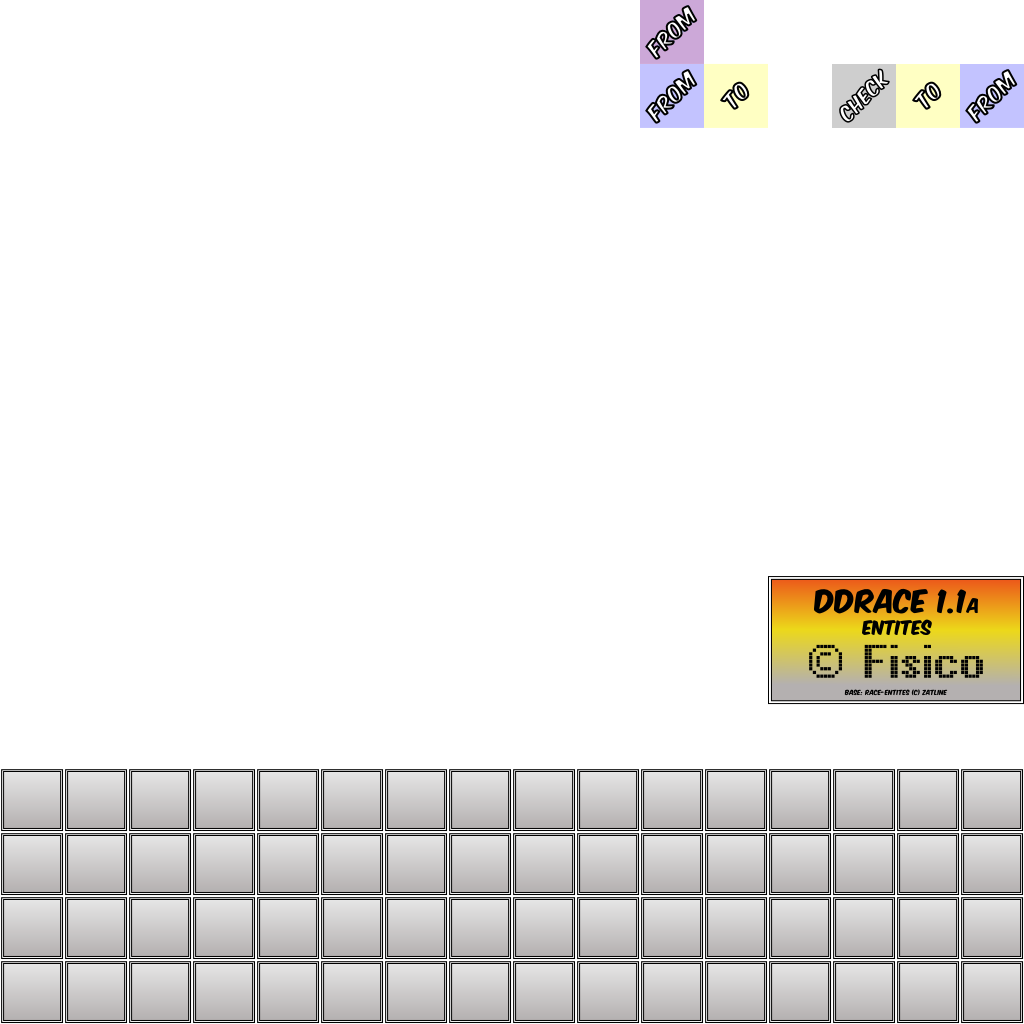
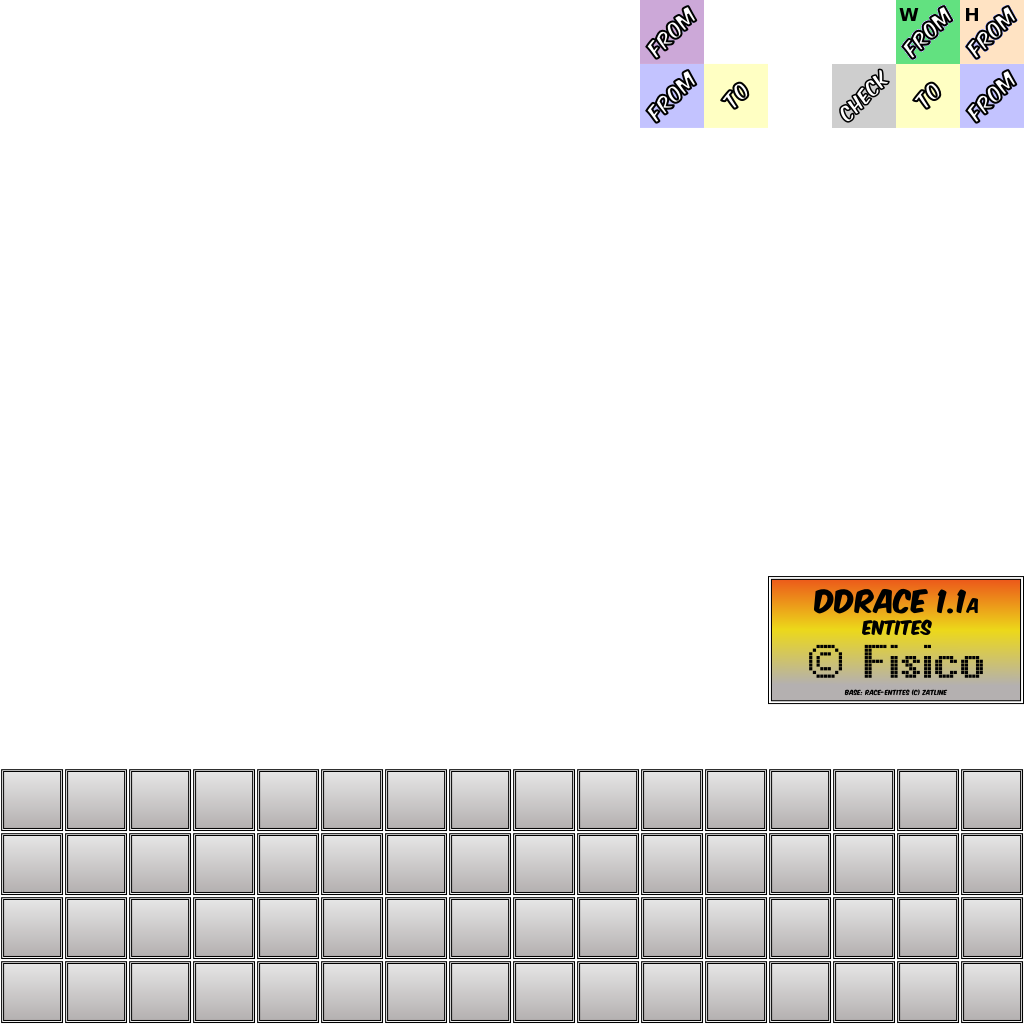
New teleport entities

Changed region(s): [[0.875, 0.0, 1.0, 0.0625]]

diff --git a/src/game/collision.cpp b/src/game/collision.cpp
@@ -211,7 +211,7 @@ int CCollision::IntersectLine(vec2 Pos0, vec2 Pos1, vec2 *pOutCollision, vec2 *p
 	return 0;
 }
 
-int CCollision::IntersectLineTele(vec2 Pos0, vec2 Pos1, vec2 *pOutCollision, vec2 *pOutBeforeCollision, int *pTeleNr, bool AllowThrough)
+int CCollision::IntersectLineTeleHook(vec2 Pos0, vec2 Pos1, vec2 *pOutCollision, vec2 *pOutBeforeCollision, int *pTeleNr, bool AllowThrough)
 {
 	float Distance = distance(Pos0, Pos1);
 	int End(Distance+1);
@@ -231,7 +231,61 @@ int CCollision::IntersectLineTele(vec2 Pos0, vec2 Pos1, vec2 *pOutCollision, vec
 
 		int Nx = clamp(ix/32, 0, m_Width-1);
 		int Ny = clamp(iy/32, 0, m_Height-1);
-		*pTeleNr = IsTeleport(Ny*m_Width+Nx);
+		if (g_Config.m_SvOldTeleportHook)
+			*pTeleNr = IsTeleport(Ny*m_Width+Nx);
+		else
+			*pTeleNr = IsTeleportHook(Ny*m_Width+Nx);
+		if(*pTeleNr)
+		{
+			if(pOutCollision)
+				*pOutCollision = Pos;
+			if(pOutBeforeCollision)
+				*pOutBeforeCollision = Last;
+			return COLFLAG_TELE;
+		}
+
+		if((CheckPoint(ix, iy) && !(AllowThrough && IsThrough(ix + dx, iy + dy))))
+		{
+			if(pOutCollision)
+				*pOutCollision = Pos;
+			if(pOutBeforeCollision)
+				*pOutBeforeCollision = Last;
+			return GetCollisionAt(ix, iy);
+		}
+
+		Last = Pos;
+	}
+	if(pOutCollision)
+		*pOutCollision = Pos1;
+	if(pOutBeforeCollision)
+		*pOutBeforeCollision = Pos1;
+	return 0;
+}
+
+int CCollision::IntersectLineTeleWeapon(vec2 Pos0, vec2 Pos1, vec2 *pOutCollision, vec2 *pOutBeforeCollision, int *pTeleNr, bool AllowThrough)
+{
+	float Distance = distance(Pos0, Pos1);
+	int End(Distance+1);
+	vec2 Last = Pos0;
+	int ix = 0, iy = 0; // Temporary position for checking collision
+	int dx = 0, dy = 0; // Offset for checking the "through" tile
+	if (AllowThrough)
+		{
+			ThroughOffset(Pos0, Pos1, &dx, &dy);
+		}
+	for(int i = 0; i < End; i++)
+	{
+		float a = i/Distance;
+		vec2 Pos = mix(Pos0, Pos1, a);
+		ix = round(Pos.x);
+		iy = round(Pos.y);
+
+		int Nx = clamp(ix/32, 0, m_Width-1);
+		int Ny = clamp(iy/32, 0, m_Height-1);
+		if (g_Config.m_SvOldTeleportWeapons)
+			*pTeleNr = IsTeleport(Ny*m_Width+Nx);
+		else
+			*pTeleNr = IsTeleportWeapon(Ny*m_Width+Nx);
 		if(*pTeleNr)
 		{
 			if(pOutCollision)
@@ -470,6 +524,29 @@ int CCollision::IsTCheckpoint(int Index)
 
 	return 0;
 }
+
+int CCollision::IsTeleportWeapon(int Index)
+{
+	if(Index < 0 || !m_pTele)
+		return 0;
+
+	if(m_pTele[Index].m_Type == TILE_TELEINWEAPON)
+		return m_pTele[Index].m_Number;
+
+	return 0;
+}
+
+int CCollision::IsTeleportHook(int Index)
+{
+	if(Index < 0 || !m_pTele)
+		return 0;
+
+	if(m_pTele[Index].m_Type == TILE_TELEINHOOK)
+		return m_pTele[Index].m_Number;
+
+	return 0;
+}
+
 
 int CCollision::IsSpeedup(int Index)
 {

diff --git a/src/game/editor/layer_tiles.cpp b/src/game/editor/layer_tiles.cpp
@@ -176,7 +176,7 @@ int CLayerTiles::BrushGrab(CLayerGroup *pBrush, CUIRect Rect)
 				for(int x = 0; x < r.w; x++)
 				{
 					pGrabbed->m_pTeleTile[y*pGrabbed->m_Width+x] = ((CLayerTele*)this)->m_pTeleTile[(r.y+y)*m_Width+(r.x+x)];
-					if(pGrabbed->m_pTeleTile[y*pGrabbed->m_Width+x].m_Type == TILE_TELEIN || pGrabbed->m_pTeleTile[y*pGrabbed->m_Width+x].m_Type == TILE_TELEOUT || pGrabbed->m_pTeleTile[y*pGrabbed->m_Width+x].m_Type == TILE_TELEINEVIL || pGrabbed->m_pTeleTile[y*pGrabbed->m_Width+x].m_Type == TILE_TELECHECK || pGrabbed->m_pTeleTile[y*pGrabbed->m_Width+x].m_Type == TILE_TELECHECKOUT || pGrabbed->m_pTeleTile[y*pGrabbed->m_Width+x].m_Type == TILE_TELECHECKIN)
+					if(pGrabbed->m_pTeleTile[y*pGrabbed->m_Width+x].m_Type == TILE_TELEIN || pGrabbed->m_pTeleTile[y*pGrabbed->m_Width+x].m_Type == TILE_TELEOUT || pGrabbed->m_pTeleTile[y*pGrabbed->m_Width+x].m_Type == TILE_TELEINEVIL || pGrabbed->m_pTeleTile[y*pGrabbed->m_Width+x].m_Type == TILE_TELECHECK || pGrabbed->m_pTeleTile[y*pGrabbed->m_Width+x].m_Type == TILE_TELECHECKOUT || pGrabbed->m_pTeleTile[y*pGrabbed->m_Width+x].m_Type == TILE_TELECHECKIN || pGrabbed->m_pTeleTile[y*pGrabbed->m_Width+x].m_Type == TILE_TELEINWEAPON || pGrabbed->m_pTeleTile[y*pGrabbed->m_Width+x].m_Type == TILE_TELEINHOOK)
 						m_pEditor->m_TeleNumber = pGrabbed->m_pTeleTile[y*pGrabbed->m_Width+x].m_Number;
 				}
 		pGrabbed->m_TeleNum = m_pEditor->m_TeleNumber;
@@ -756,7 +756,7 @@ void CLayerTele::BrushDraw(CLayer *pBrush, float wx, float wy)
 			if(fx<0 || fx >= m_Width || fy < 0 || fy >= m_Height)
 				continue;
 
-			if(l->m_pTiles[y*l->m_Width+x].m_Index == TILE_TELEIN || l->m_pTiles[y*l->m_Width+x].m_Index == TILE_TELEINEVIL || l->m_pTiles[y*l->m_Width+x].m_Index == TILE_TELEOUT || l->m_pTiles[y*l->m_Width+x].m_Index == TILE_TELECHECK || l->m_pTiles[y*l->m_Width+x].m_Index == TILE_TELECHECKOUT || l->m_pTiles[y*l->m_Width+x].m_Index == TILE_TELECHECKIN)
+			if(l->m_pTiles[y*l->m_Width+x].m_Index == TILE_TELEIN || l->m_pTiles[y*l->m_Width+x].m_Index == TILE_TELEINEVIL || l->m_pTiles[y*l->m_Width+x].m_Index == TILE_TELEOUT || l->m_pTiles[y*l->m_Width+x].m_Index == TILE_TELECHECK || l->m_pTiles[y*l->m_Width+x].m_Index == TILE_TELECHECKOUT || l->m_pTiles[y*l->m_Width+x].m_Index == TILE_TELECHECKIN || l->m_pTiles[y*l->m_Width+x].m_Index == TILE_TELEINWEAPON || l->m_pTiles[y*l->m_Width+x].m_Index == TILE_TELEINHOOK)
 			{
 				if(m_pEditor->m_TeleNumber != l->m_TeleNum)
 				{

diff --git a/src/game/variables.h b/src/game/variables.h
@@ -82,8 +82,8 @@ MACRO_CONFIG_INT(SvVoteSpectateRejoindelay, sv_vote_spectate_rejoindelay, 3, 0, 
 MACRO_CONFIG_INT(SvVoteKick, sv_vote_kick, 1, 0, 1, CFGFLAG_SERVER, "Allow voting to kick players")
 MACRO_CONFIG_INT(SvVoteKickMin, sv_vote_kick_min, 0, 0, MAX_CLIENTS, CFGFLAG_SERVER, "Minimum number of players required to start a kick vote")
 MACRO_CONFIG_INT(SvVoteKickBantime, sv_vote_kick_bantime, 5, 0, 1440, CFGFLAG_SERVER, "The time to ban a player if kicked by vote. 0 makes it just use kick")
-MACRO_CONFIG_INT(SvTeleportWeapons, sv_teleport_weapons, 0, 0, 1, CFGFLAG_SERVER, "Teleporting of all weapons");
-MACRO_CONFIG_INT(SvTeleportHook, sv_teleport_hook, 0, 0, 1, CFGFLAG_SERVER, "Hook through teleporter");
+MACRO_CONFIG_INT(SvOldTeleportWeapons, sv_old_teleport_weapons, 0, 0, 1, CFGFLAG_SERVER, "Teleporting of all weapons (deprecated, use special entities instead)");
+MACRO_CONFIG_INT(SvOldTeleportHook, sv_old_teleport_hook, 0, 0, 1, CFGFLAG_SERVER, "Hook through teleporter (deprecated, use special entities instead)");
 
 // debug
 #ifdef CONF_DEBUG // this one can crash the server if not used correctly

diff --git a/src/game/collision.h b/src/game/collision.h
@@ -37,7 +37,8 @@ public:
 	int GetWidth() { return m_Width; };
 	int GetHeight() { return m_Height; };
 	int IntersectLine(vec2 Pos0, vec2 Pos1, vec2 *pOutCollision, vec2 *pOutBeforeCollision, bool AllowThrough);
-	int IntersectLineTele(vec2 Pos0, vec2 Pos1, vec2 *pOutCollision, vec2 *pOutBeforeCollision, int *pTeleNr, bool AllowThrough);
+	int IntersectLineTeleWeapon(vec2 Pos0, vec2 Pos1, vec2 *pOutCollision, vec2 *pOutBeforeCollision, int *pTeleNr, bool AllowThrough);
+	int IntersectLineTeleHook(vec2 Pos0, vec2 Pos1, vec2 *pOutCollision, vec2 *pOutBeforeCollision, int *pTeleNr, bool AllowThrough);
 	void MovePoint(vec2 *pInoutPos, vec2 *pInoutVel, float Elasticity, int *pBounces);
 	void MoveBox(vec2 *pInoutPos, vec2 *pInoutVel, vec2 Size, float Elasticity);
 	bool TestBox(vec2 Pos, vec2 Size);
@@ -76,6 +77,8 @@ public:
 	int IsTeleport(int Index);
 	int IsEvilTeleport(int Index);
 	int IsCheckTeleport(int Index);
+	int IsTeleportWeapon(int Index);
+	int IsTeleportHook(int Index);
 	int IsTCheckpoint(int Index);
 	//int IsCheckpoint(int Index);
 	int IsSpeedup(int Index);

diff --git a/src/game/server/entities/laser.cpp b/src/game/server/entities/laser.cpp
@@ -91,10 +91,7 @@ void CLaser::DoBounce()
 
 	vec2 To = m_Pos + m_Dir * m_Energy;
 
-	if (g_Config.m_SvTeleportWeapons)
-		Res = GameServer()->Collision()->IntersectLineTele(m_Pos, To, &Coltile, &To, &z, false);
-	else
-		Res = GameServer()->Collision()->IntersectLine(m_Pos, To, &Coltile, &To, false);
+	Res = GameServer()->Collision()->IntersectLineTeleWeapon(m_Pos, To, &Coltile, &To, &z, false);
 
 	if(Res)
 	{
@@ -123,7 +120,7 @@ void CLaser::DoBounce()
 
 			m_Energy -= distance(m_From, m_Pos) + GameServer()->Tuning()->m_LaserBounceCost;
 
-			if (g_Config.m_SvTeleportWeapons && Res&CCollision::COLFLAG_TELE && ((CGameControllerDDRace*)GameServer()->m_pController)->m_TeleOuts[z-1].size())
+			if (Res&CCollision::COLFLAG_TELE && ((CGameControllerDDRace*)GameServer()->m_pController)->m_TeleOuts[z-1].size())
 			{
 				int Num = ((CGameControllerDDRace*)GameServer()->m_pController)->m_TeleOuts[z-1].size();
 				m_TelePos = ((CGameControllerDDRace*)GameServer()->m_pController)->m_TeleOuts[z-1][(!Num)?Num:rand() % Num];

diff --git a/src/game/server/entities/character.cpp b/src/game/server/entities/character.cpp
@@ -1469,7 +1469,7 @@ void CCharacter::HandleTiles(int Index)
 		m_Hit |= DISABLE_HIT_RIFLE;
 	}
 	int z = GameServer()->Collision()->IsTeleport(MapIndex);
-	if(!g_Config.m_SvTeleportHook && !g_Config.m_SvTeleportWeapons && z && Controller->m_TeleOuts[z-1].size())
+	if(!g_Config.m_SvOldTeleportHook && !g_Config.m_SvOldTeleportWeapons && z && Controller->m_TeleOuts[z-1].size())
 	{
 		m_Core.m_HookedPlayer = -1;
 		m_Core.m_HookState = HOOK_RETRACTED;
@@ -1485,7 +1485,7 @@ void CCharacter::HandleTiles(int Index)
 	{
 		int Num = Controller->m_TeleOuts[evilz-1].size();
 		m_Core.m_Pos = Controller->m_TeleOuts[evilz-1][(!Num)?Num:rand() % Num];
-		if (!g_Config.m_SvTeleportHook && !g_Config.m_SvTeleportWeapons)
+		if (!g_Config.m_SvOldTeleportHook && !g_Config.m_SvOldTeleportWeapons)
 		{
 			m_Core.m_HookedPlayer = -1;
 			m_Core.m_HookState = HOOK_RETRACTED;

diff --git a/src/game/server/entities/projectile.cpp b/src/game/server/entities/projectile.cpp
@@ -157,8 +157,12 @@ void CProjectile::Tick()
 	}
 
 	int x = GameServer()->Collision()->GetIndex(PrevPos, CurPos);
-	int z = GameServer()->Collision()->IsTeleport(x);
-	if (g_Config.m_SvTeleportWeapons && z && ((CGameControllerDDRace*)GameServer()->m_pController)->m_TeleOuts[z-1].size())
+	int z;
+	if (g_Config.m_SvOldTeleportWeapons)
+		z = GameServer()->Collision()->IsTeleport(x);
+	else
+		z = GameServer()->Collision()->IsTeleportWeapon(x);
+	if (z && ((CGameControllerDDRace*)GameServer()->m_pController)->m_TeleOuts[z-1].size())
 	{
 		int Num = ((CGameControllerDDRace*)GameServer()->m_pController)->m_TeleOuts[z-1].size();
 		m_Pos = ((CGameControllerDDRace*)GameServer()->m_pController)->m_TeleOuts[z-1][(!Num)?Num:rand() % Num];

diff --git a/src/game/editor/io.cpp b/src/game/editor/io.cpp
@@ -693,6 +693,10 @@ int CEditorMap::Load(class IStorage *pStorage, const char *pFileName, int Storag
 									((CLayerTiles*)pTiles)->m_pTiles[i].m_Index = TILE_TELECHECKIN;
 								else if(((CLayerTele*)pTiles)->m_pTeleTile[i].m_Type == TILE_TELECHECKOUT)
 									((CLayerTiles*)pTiles)->m_pTiles[i].m_Index = TILE_TELECHECKOUT;
+								else if(((CLayerTele*)pTiles)->m_pTeleTile[i].m_Type == TILE_TELEINWEAPON)
+									((CLayerTiles*)pTiles)->m_pTiles[i].m_Index = TILE_TELEINWEAPON;
+								else if(((CLayerTele*)pTiles)->m_pTeleTile[i].m_Type == TILE_TELEINHOOK)
+									((CLayerTiles*)pTiles)->m_pTiles[i].m_Index = TILE_TELEINHOOK;
 								else
 									((CLayerTiles*)pTiles)->m_pTiles[i].m_Index = 0;
 							}

diff --git a/src/game/gamecore.cpp b/src/game/gamecore.cpp
@@ -259,11 +259,7 @@ void CCharacterCore::Tick(bool UseInput)
 		bool GoingToRetract = false;
 		bool GoingThroughTele = false;
 		int teleNr = 0;
-		int Hit;
-		if (!g_Config.m_SvTeleportHook)
-			Hit = m_pCollision->IntersectLine(m_HookPos, NewPos, &NewPos, 0, true);
-		else
-			Hit = m_pCollision->IntersectLineTele(m_HookPos, NewPos, &NewPos, 0, &teleNr, true);
+		int Hit = m_pCollision->IntersectLineTeleHook(m_HookPos, NewPos, &NewPos, 0, &teleNr, true);
 
 		//m_NewHook = false;
 

diff --git a/src/game/mapitems.h b/src/game/mapitems.h
@@ -98,6 +98,8 @@ enum
 	TILE_UNFREEZE,
 	TILE_DFREEZE,
 	TILE_DUNFREEZE,
+	TILE_TELEINWEAPON,
+	TILE_TELEINHOOK,
 	TILE_EHOOK_START = 17,
 	TILE_EHOOK_END,
 	TILE_HIT_START,
